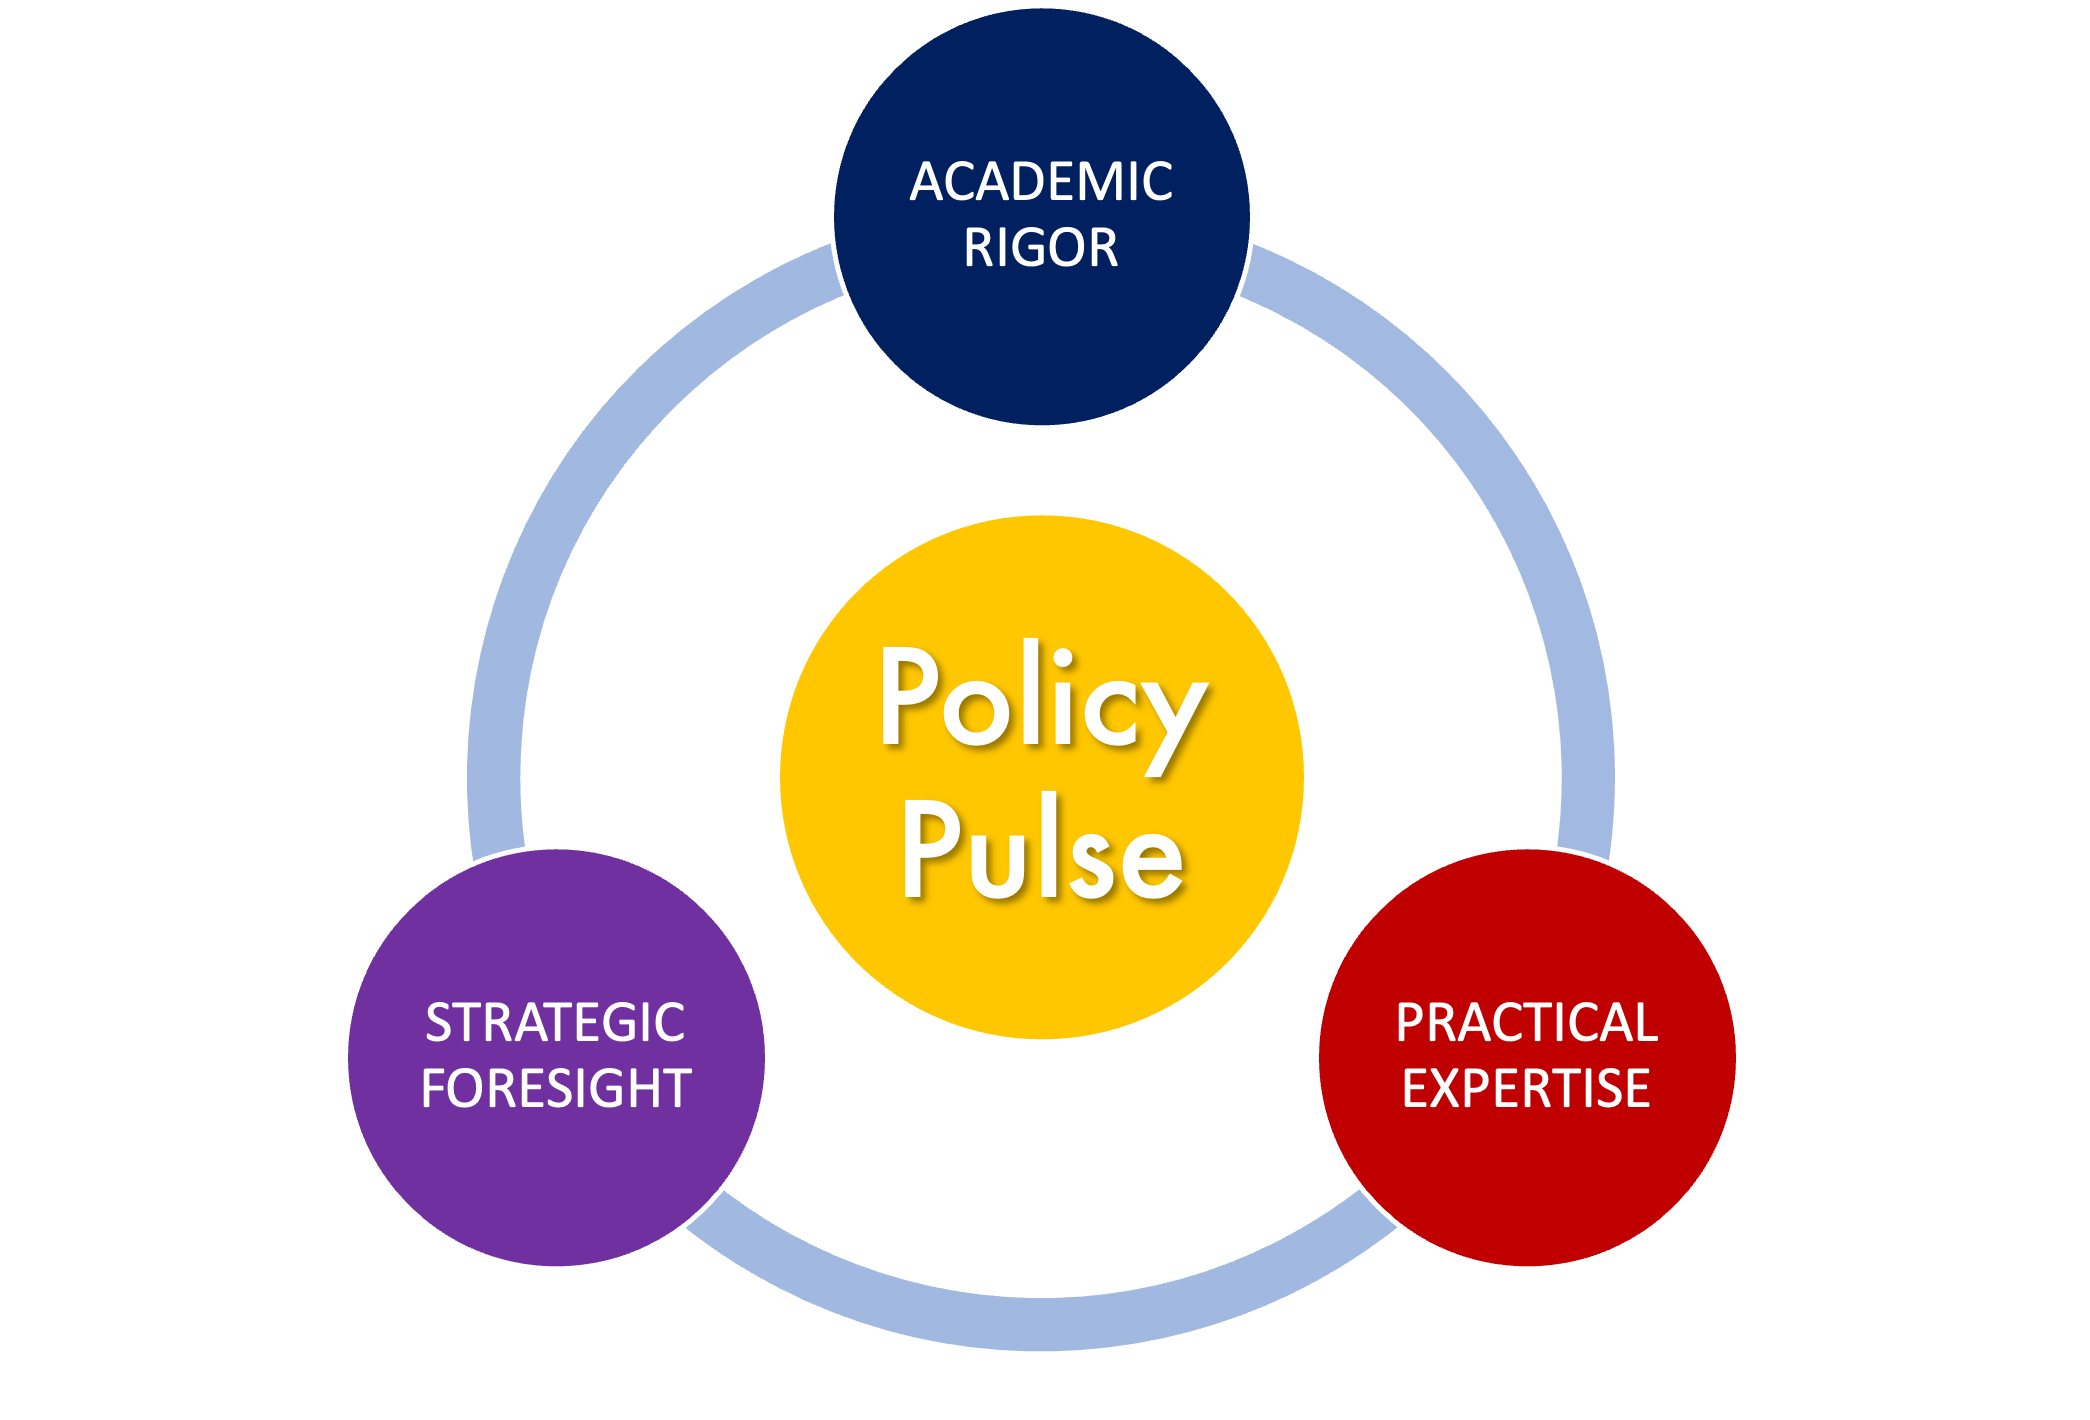
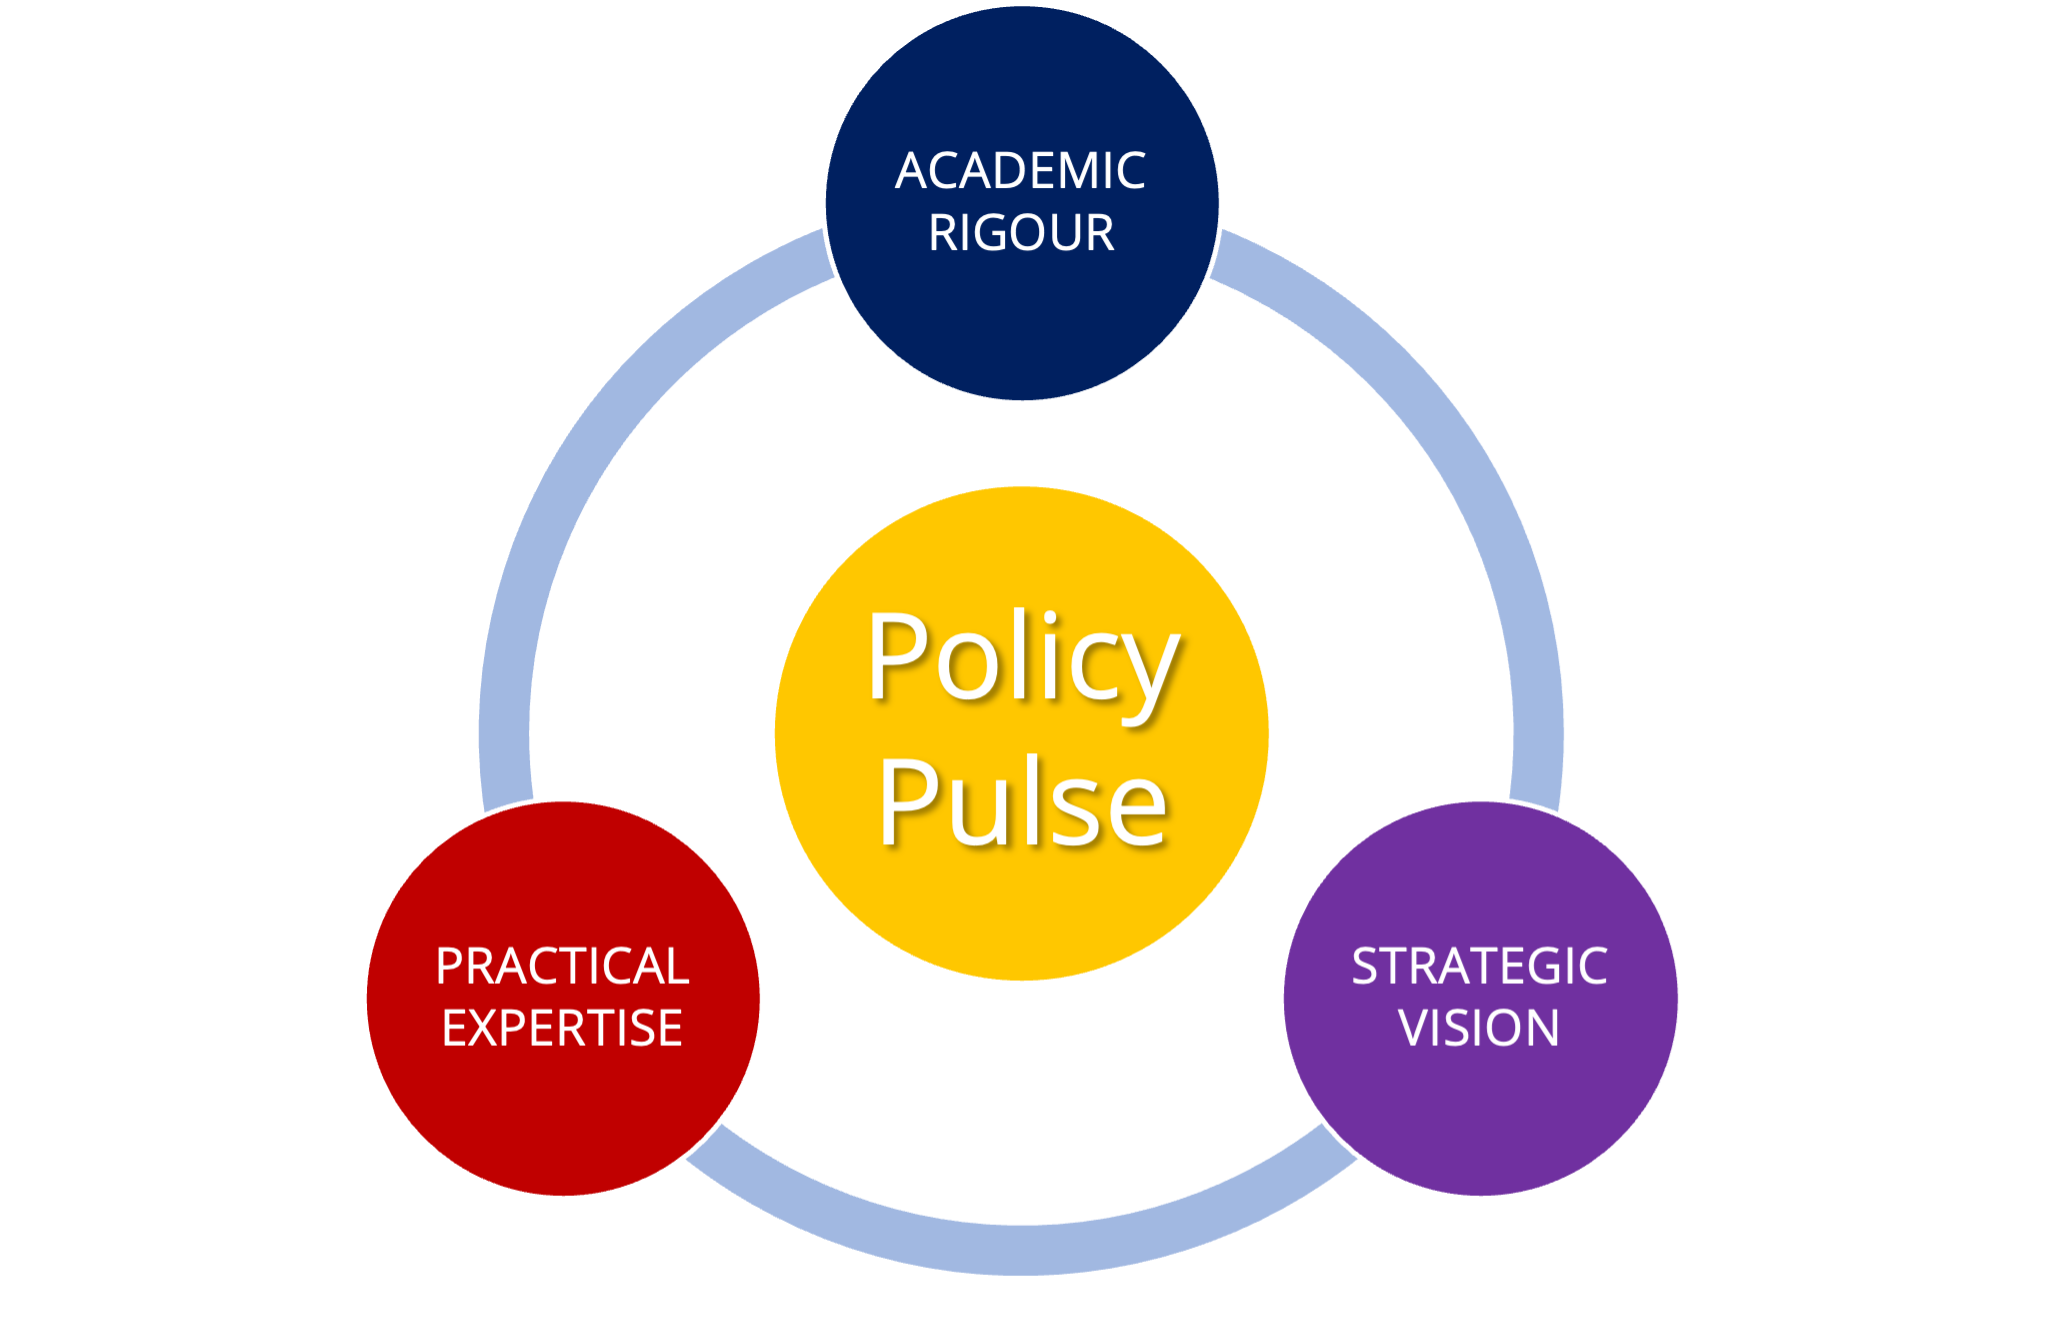
Whitening

diff --git a/src/components/SummaryComponent.css b/src/components/SummaryComponent.css
@@ -1,14 +1,30 @@
+.outer-container {
+  background-color: #ffffff; /* White background */
+  background-color: hsla(228, 15%, 31%,.9);
+  background-color: rgba(0, 0, 0, 0.8);
+  padding: 0cm 7.75cm 3cm 7.75cm; /* 3cm wide white margins on left and right */
+}
+
 .summary-container {
-  background-color: hsla(226, 7%, 34%, 0.9);
-  padding-top: 40px;
+  /*background-color: rgb(156, 156, 156);*/
+  /*background-color: rgb(239, 239, 239); */
+  /*background-color: hsla(226, 7%, 34%, 0.9); */
+  background-color: hsla(228, 15%, 31%,1);
+  background-color: #ffffff; /* White background */
+  /*background-color: hsla(0, 0%, 0%, 0.85); */
+  /*background-color: rgba(31, 78, 121); */
+  padding-top: 30px;
   padding-bottom: 40px;
   height: auto;
-  margin-top: 2px;
+  /*margin-top: 2px;*/
   margin-bottom: 3px;
   display: flex;
   flex-direction: column; /* Keeps children stacked vertically */
   align-items: center;
   justify-content: center;
+  opacity: .9;
+  margin: 0 auto; /* Center the container */
+  width: 100%; /* Use the full width available */
 }
 
 .summary-image {
@@ -20,25 +36,30 @@
 .summary-text {
   font-family: Futura, 'Gill Sans MT', 'Calibri', 'Trebuchet MS', sans-serif;
   font-size: 1.5em;
-  color: #FFFFFF;
+  /*color: #FFFFFF;*/
+  color: rgb(0, 0, 0); 
   text-align: justify;
-  margin-left: 370px;
-  margin-right: 370px;
+  margin-left: 200px;
+  margin-right: 200px;
 }
 
 .summary-title {
-  font-size: 4em;
-  font-style: italic;
-  font-weight: bold;
+  font-size: 3em;
+  /*font-style: italic;*/
   text-align: center;
   margin-bottom: 20px;
-  color: #ffffff;
 }
 
 .title-part1 {
-  color: #FFFFFF;
+  /*color: #FFFFFF;*/
+  color: rgb(0, 0, 0); 
 }
 
 .title-part2 {
-  color: #A4D9FF;
+  font-family: Futura;
+  font-style: italic;
+  /*color: #A4D9FF;*/
+   /*color: rgb(255, 255, 255);*/
+  color: #FFC700;
+  /*color: rgba(31, 78, 121);*/
 }

diff --git a/src/components/TeamPictures.js b/src/components/TeamPictures.js
@@ -1,26 +1,29 @@
 import React from 'react';
 import './TeamPictures.css';
-import Pillars from './bkg-pillars2.png'; // Make sure the path is correct
+import Pillars from './bkg-pillars3.png'; // Make sure the path is correct
 
 function TeamComponent({ members }) {
-    return (
-      <div className="team-container"  style={{ backgroundImage: `url(${Pillars})` }}> {/* Modified Line */}
-          <div className="team-title" >
-          Our Core Team
-          </div>
-        <div className="team-grid">
-          {members.map((member, index) => (
-            <div className="team-member" key={index}>
-              <img src={member.photoUrl} alt={member.name} className="team-photo" />
-                <div className="team-info">
-                <div className="team-name">{member.name}</div>
-                <div className="team-position">{member.position}</div>
-              </div>
-            </div>
-          ))}
+  return (
+    <div className="team-container" style={{ 
+        backgroundImage: `linear-gradient(rgba(255, 255, 255, .5), rgba(255, 255, 255, .5)), url(${Pillars})` 
+    }}>
+        <div className="team-title">
+        Our Core Team
         </div>
+      <div className="team-grid">
+        {members.map((member, index) => (
+          <div className="team-member" key={index}>
+            <img src={member.photoUrl} alt={member.name} className="team-photo" />
+              <div className="team-info">
+              <div className="team-name">{member.name}</div>
+              <div className="team-position">{member.position}</div>
+            </div>
+          </div>
+        ))}
       </div>
-    );
-  }
+    </div>
+  );
+}
+
   
   export default TeamComponent;

diff --git a/src/components/Information.js b/src/components/Information.js
@@ -1,21 +1,18 @@
 import React from 'react';
 import './Information.css';
+import OwlImage from './bkg-owl.png'; // Ensure the path is correct
 
-
-function BackgroundImageComponent({ image}) {
-  const backgroundImageStyle = {
-    backgroundImage: `url(${image})`,
-  };
-
+function InfoComponent() {
   return (
-    <div style={backgroundImageStyle}  className="background-image-container">
+    <div className='info-container'>
+      <img src={OwlImage} alt="OwlImage" className="info-image" />
       <div className="info-title" style={{ fontFamily: 'Futura, sans-serif' }}>What We Do</div>
       
       <p className="info-text"><span className="highlighted" style={{ fontFamily: 'Futura, sans-serif' }}>Policy Pulse</span> is a knowledge-for-policy institute working in partnership with organisations and governments to provide research and advisory services.</p>
       <p className="info-text">At <span className="highlighted" style={{ fontFamily: 'Futura, sans-serif' }}>Policy Pulse</span> we build bridges between cutting-edge research and real-world implementation by supporting policymakers with evidence-based solutions to complex issues.</p>
       <p className="info-text">At <span className="highlighted" style={{ fontFamily: 'Futura, sans-serif' }}>Policy Pulse</span> we are an experienced team that brings together a unique blend of academic knowledge and global policy expertise, with comprehensive know-how in <span className="highlighted-other">policy development and evaluation, data analytics, and political advisory services.</span></p>
     </div>
-  );
+    );
 }
 
 export default BackgroundImageComponent;

diff --git a/src/components/MottoComponent.css b/src/components/MottoComponent.css
@@ -1,9 +1,11 @@
 .motto-container {
-    background-color: hsla(226, 7%, 34%, 0.9);
+    /* background-color: hsla(226, 7%, 34%, 0.9); */
+    background-color: #ffffff;
     text-align: center; /* Centered text */
     padding-top: 0px; /* Padding around the text */
     height: 450px;
     margin-top: 3px; /* Combined margin properties */
+    opacity:95%;
   }
   
  /* .motto-translation{
@@ -17,7 +19,9 @@
     font-family: 'Garamond, serif'; 
     font-style: italic; /* Italic text */
     font-size: 5em; /* Large text */
-    color: #A4D9FF;
+    /*color: #A4D9FF;*/
+    /*color: rgba(31, 78, 121); /* Set background color to black */
+    color: #FFC700;
     padding: 50px;
   }
 
@@ -29,13 +33,15 @@
     text-align: justify;
     font-family: Futura, 'Gill Sans MT', 'Calibri', 'Trebuchet MS', sans-serif;
     font-size: 1.5em; /* Normal text size */
-    color: #FFFFFF; /* White text color for translation and explanation */
+    /*color: #FFFFFF; /* White text color for translation and explanation */
+    color: #000000; /* White text color for translation and explanation */
     margin-left: 400px; /* Padding around the text */
     margin-right: 400px; /* Padding around the text */
   }
 
   .motto-highlighted {
-    color: #A4D9FF;
+    /*color: #A4D9FF;*/
+    color: rgba(31, 78, 121); /* Set background color to black */
     font-weight: bold;
     font-style: italic;
   }

diff --git a/src/components/SummaryComponent.js b/src/components/SummaryComponent.js
@@ -4,15 +4,19 @@ import Pillars from './bkg-pillars.png';
 
 function SummaryComponent() {
   return (
-    <div className='summary-container'>
-      <h1 className='summary-title'>
-        <span className='title-part1'>A catalyst for</span>
-        <span className='title-part2'> Transformative Policy Solutions</span>
-      </h1>
-      <img src={Pillars} alt='Pillars' className='summary-image' />
-      <p className='summary-text'>Combining academic rigor, practical expertise, and strategic foresight to address unique, potentially pressing and complex policy challenges.</p>
+    <div className='outer-container'> {/* Added outer container */}
+      <div className='summary-container'>
+        <img src={Pillars} alt='Pillars' className='summary-image' />
+        <p className='summary-text'>We combine academic rigour, practical expertise, and strategic vision to help leaders and organisations address research and policy challenges.</p>
+      </div>
     </div>
   );
 }
 
 export default SummaryComponent;
+
+/* <h1 className='summary-title'>
+<span className='title-part2'> Transformative Resarch and Policy Solutions</span>
+</h1>
+
+       <span className='title-part1'>A catalyst for</span> */

diff --git a/src/components/InfoSplit.css b/src/components/InfoSplit.css
@@ -19,7 +19,8 @@
     /* background-size: cover;
     /* background-position: center; */
     text-align: justify;
-    background-color: hsla(228, 15%, 31%, 0.9);
+    /*background-color: hsla(228, 15%, 31%, 0.9);*/
+    background-color: hsla(0, 0%, 100%, 1);
     width: 60%;
     /* height: 600px; */
     font-size: 16px;
@@ -40,7 +41,8 @@
     font-size: 25px;
     /* font-weight: bold; */
     font-Family: 'Futura';
-    color: #A4D9FF;
+    /*color: #A4D9FF;*/
+    color: rgba(31, 78, 121); /* Set background color to black */
     text-align: justify;
     margin-bottom: 30px; /* Adds space between title and paragraphs */
   }
@@ -49,7 +51,8 @@
     font-size: 18px;
     /* font-weight: bold; */
     font-Family: 'Futura';
-    color: #FFFFFF;
+    /*color: #FFFFFF;*/
+    color: #000000;
     text-align: justify;
     padding-right: 120px;
     padding-left: 120px;

diff --git a/src/components/pages/Data.js b/src/components/pages/Data.js
@@ -5,7 +5,7 @@ export const cardExpertise = {
 export const cardPolicy = {
   image: 'images/bkg-farm.png',
   title: 'Policy Expertise',
-  subtitle: 'POLICY DEVELOPMENT & EVALUATION',
+  subtitle: 'POLICY CRAFTING & EVALUATION',
   par1: 'Policy Pulse offers a knowledge-based approach to policy development for supporting organisations and governments. We use research insights to help policymakers design and implement the most effective policies.',
   par2: 'Effective policy development requires in-depth understanding of the local context to make the best use of existing evidence. It is also crucial that policy design incorporates social, political and financial risk. At Policy Pulse we help policymakers articulate these dimensions for sound, cost-effective, policy delivery in complex environments.'
 }

diff --git a/src/components/Background.css b/src/components/Background.css
@@ -1,14 +1,25 @@
 .background-container {
+  /* position: relative;  */ 
   display: flex;
   flex-direction: column;
   align-items: center;
   justify-content: center;
-  background-color: rgba(0, 0, 0, 0.75); /* Set background color to black */
-  height: 675px;
+  /* background-color: rgba(0, 0, 0, 0.8);  */
+  background-color: hsla(228, 15%, 31%, .9);
+  background-color: rgba(0, 0, 0, 0.8);  
+  height: 650px;
   text-align: justify;
-  margin: 0px 0px 2px 0px; /* Combined margin properties */
-  opacity: 0.95;
+  margin: 0px 0px 0px 0px; /* Combined margin properties */
 }
+
+/* .info-image {
+  position: absolute; 
+  top: 600px; 
+  max-width: 50%;
+  height: auto;
+  margin-bottom: 0px;
+  opacity: 90%;
+} */
 
 .info-title {
   font-size: 40px;

diff --git a/src/components/HeroSection.css b/src/components/HeroSection.css
@@ -8,13 +8,13 @@ video {
 
 .hero-container {
   /* background: url('/images/img-home.jpg') center center/cover no-repeat; */
-  height: 90vh;
+  height: 100vh;
   width: 100%;
   display: flex;
   flex-direction: column;
   justify-content: center;
   align-items: center;
-  box-shadow: inset 0 0 0 1000px rgba(0, 0, 0, 0.2);
+  box-shadow: inset 0 0 0 1000px rgba(0, 0, 0, .8);
   object-fit: contain;
 }
 
@@ -60,6 +60,13 @@ video {
   font-weight: normal;
   font-family: 'Futura';
   margin-top: 10px;
+  /*margin-left: 380px;
+  margin-right: 380px;*/
+}
+
+.second-line {
+  display: block; /* Makes the span behave like a block-level element, causing a line break */
+  text-align: center;
 }
 
 .fa-play-circle {

diff --git a/src/components/Information.css b/src/components/Information.css
@@ -1,9 +1,9 @@
-.background-image-container {
+.info-container {
+  position: relative;
   display: flex;
   flex-direction: column;
   align-items: center; /* Centers children horizontally */
   justify-content: center; /* Centers children vertically */
-  background-size: cover;
   /* background-position: center; */
   height: 675px; /* or any desired height */
   /* width: 1400px; /* or any desired height */
@@ -14,6 +14,15 @@
   margin-top: 0px;
   margin-bottom: 2px;
   opacity: 0.95;
+}
+
+.info-image {
+  position: absolute; /* Changed to absolute */
+  top: 100px; /* Adjust as needed */
+  left: 10px; /* Adjust as needed */
+  max-width: 50%;
+  height: auto;
+  margin-bottom: 0px;
 }
 
 .info-title {

diff --git a/src/components/TeamPictures.css b/src/components/TeamPictures.css
@@ -1,13 +1,13 @@
 .team-container {
-    background-color: #eaeaea;
-    padding: 60px;
-    border-radius: 8px;
-    text-align: center;
-    background-size: 80%;
-    background-repeat: no-repeat;
-    background-position: center 75%;
-    opacity: 100%;
-  }
+  background-color: #ffffff;
+  padding: 60px;
+  border-radius: 8px;
+  text-align: center;
+  background-size: 80%;
+  background-repeat: no-repeat;
+  background-position: center 75%;
+  opacity: 100%;
+}
 
   .team-title {
     font-size: 40px;

diff --git a/src/components/HeroSection.js b/src/components/HeroSection.js
@@ -16,8 +16,9 @@ function HeroSection() {
       </div>
       <div className='hero-inner'>
         <h2>
-        Blending academic insight and policy expertise to equip leaders and organisations with innovative, evidence-based solutions
-      </h2>
+        Blending academic insight and policy expertise to equip leaders and organisations
+        <span className='second-line'>with innovative, evidence-based solutions.</span>
+        </h2>
       </div>
     </div>
   );
